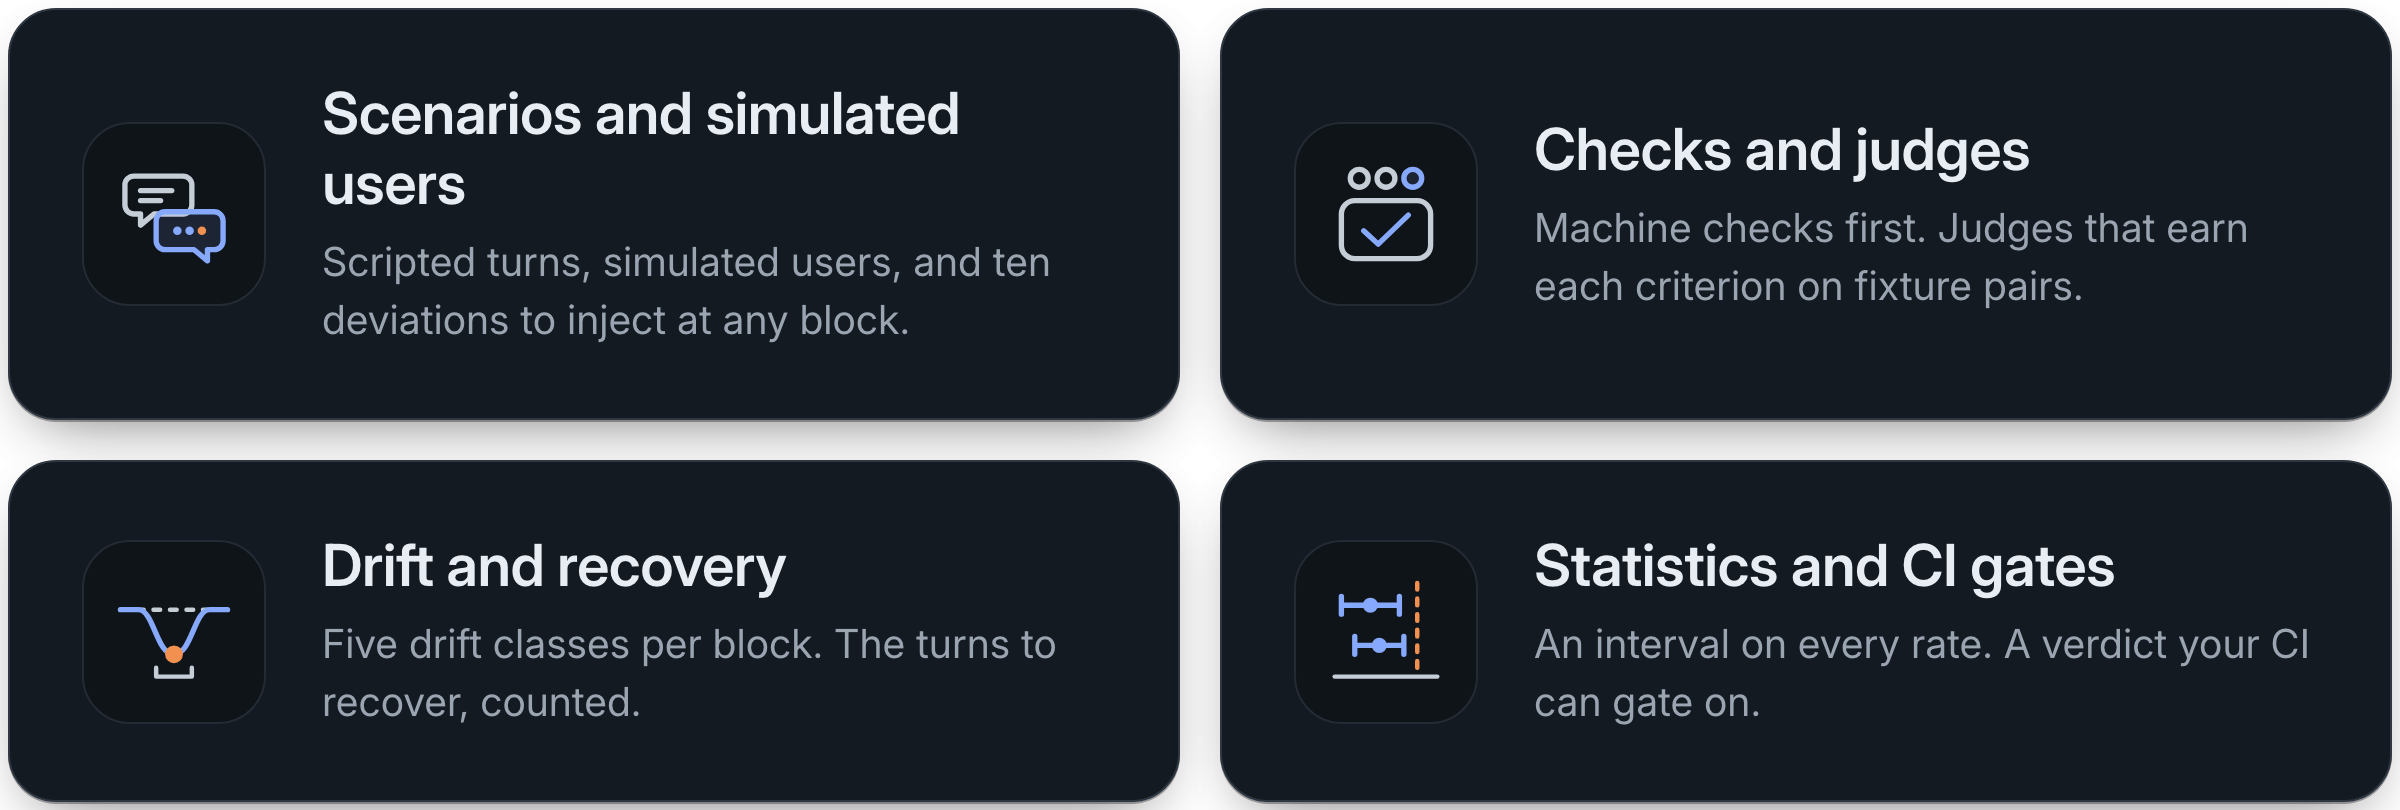
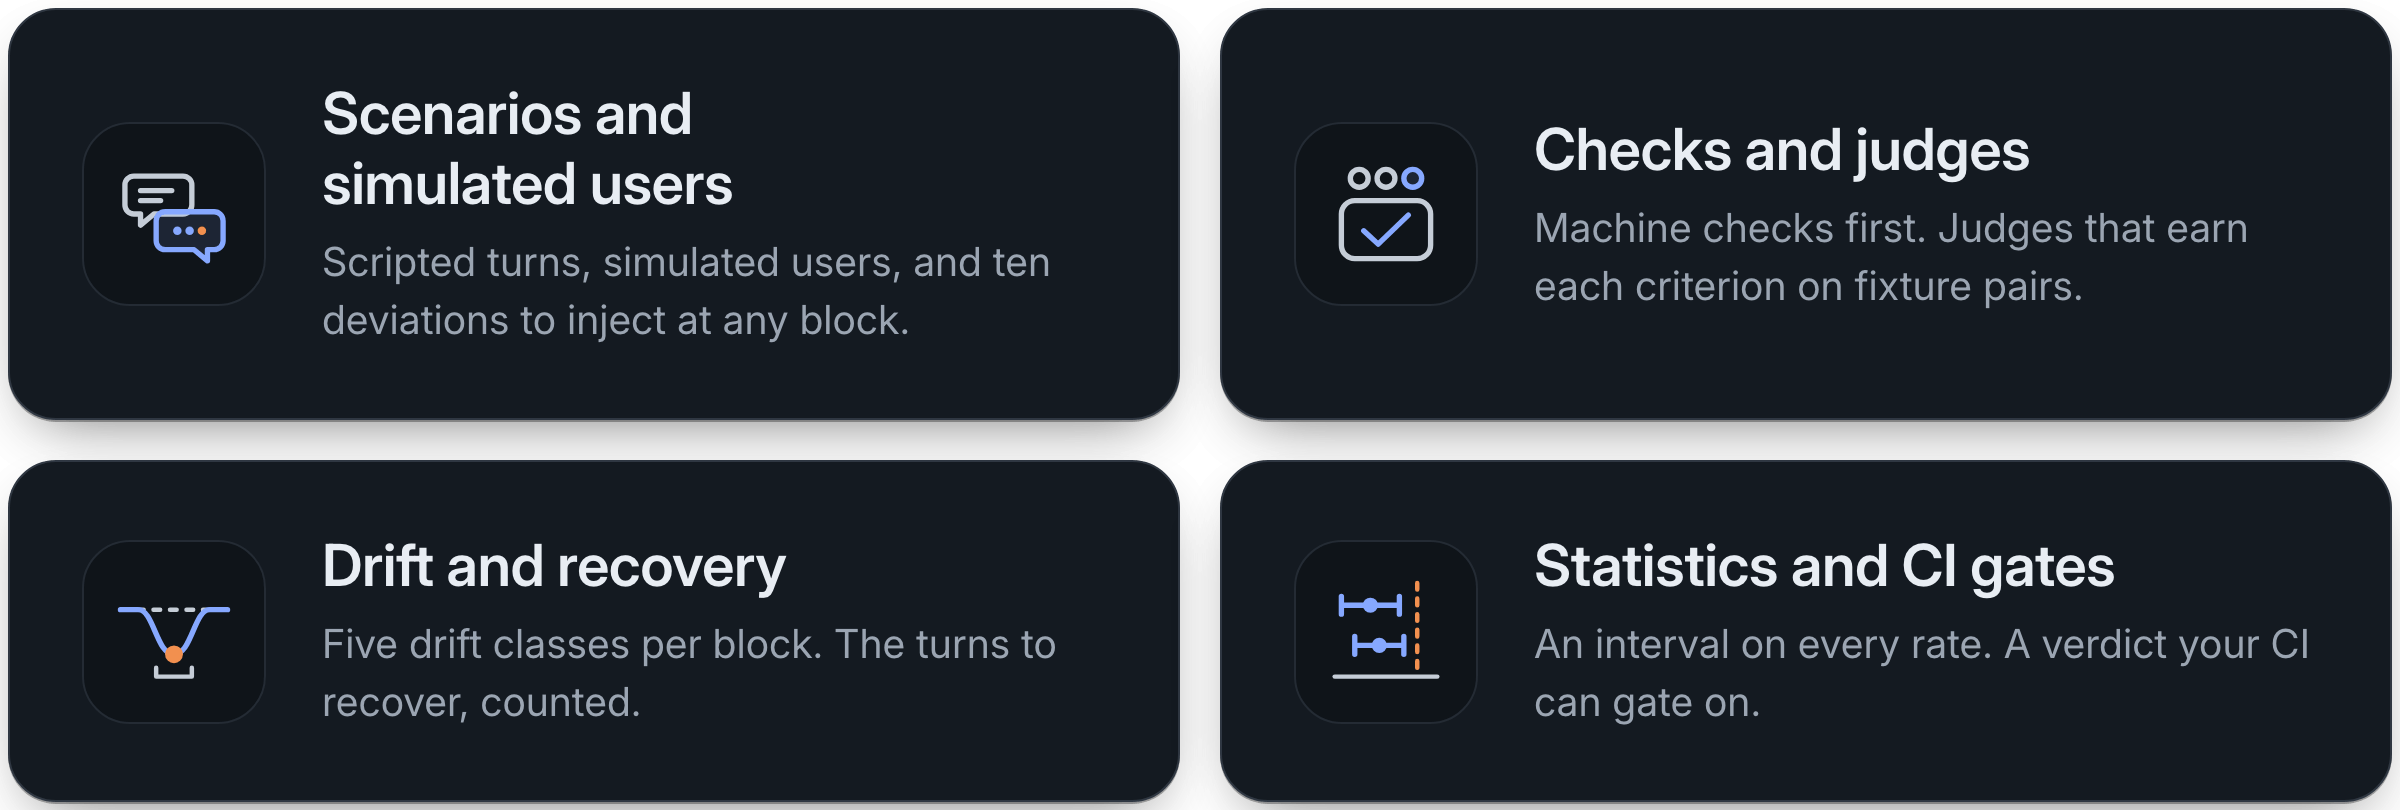
README: two column tables that fit a phone, validated spec snippet
The comparison, run mode and roadmap tables now use two columns, so
nothing scrolls off at 390 px. Phase tags no longer break. The YAML
snippet validates with zero warnings against the spec schema on main.
Tile titles balance, and the TypeScript badge stays visible on dark.

Changed region(s): [[0.125, 0.1852, 0.3125, 0.2778], [0.2812, 0.1235, 0.4062, 0.1852]]

diff --git a/.github/readme/src/areas.html b/.github/readme/src/areas.html
@@ -27,8 +27,8 @@
     border: 1px solid var(--line-2);
   }
   .icon svg { width: 58px; height: 58px; overflow: visible; }
-  h3 { margin: 0; font-size: 29px; font-weight: 600; letter-spacing: -0.01em; color: var(--ink); }
-  p { margin: 8px 0 0; font-size: 20px; line-height: 1.45; color: var(--muted); }
+  h3 { margin: 0; font-size: 29px; font-weight: 600; letter-spacing: -0.01em; color: var(--ink); text-wrap: balance; }
+  p { margin: 8px 0 0; font-size: 20px; line-height: 1.45; color: var(--muted); text-wrap: pretty; }
   .k { stroke: var(--ink-2); }
   .b { stroke: var(--blue); }
   .e { stroke: var(--ember); }

diff --git a/README.md b/README.md
@@ -16,7 +16,7 @@
 <p align="center">
   <a href="LICENSE"><img alt="license Apache 2.0" src="https://img.shields.io/badge/license-Apache--2.0-2F5FD0?style=flat" /></a>
   <a href="#roadmap"><img alt="status pre alpha" src="https://img.shields.io/badge/status-pre--alpha-1B2A44?style=flat" /></a>
-  <img alt="language TypeScript" src="https://img.shields.io/badge/language-TypeScript-0E1116?style=flat" />
+  <img alt="language TypeScript" src="https://img.shields.io/badge/language-TypeScript-2F5FD0?style=flat" />
   <img alt="Node 22 or newer" src="https://img.shields.io/badge/node-22%2B-1B2A44?style=flat" />
   <a href="https://github.com/achammah/driftbench/actions/workflows/ci.yml"><img alt="CI status" src="https://github.com/achammah/driftbench/actions/workflows/ci.yml/badge.svg" /></a>
 </p>
@@ -52,16 +52,25 @@ id: acme.upgrade_plan
 version: "1"
 kind: conversation
 lang: EN
+criteria:
+  - name: one_question
+    rubric: The reply asks one question at most.
 blocks:
-  - when: { user: "Which plan has unlimited data? I want to keep my number." }
+  - when:
+      user: >
+        Which plan has unlimited data?
+        I want to keep my number.
     expect:
       step: plan
       tools:
-        - { label: catalog.search, count: 1 }
-      must: ["unlimited"]
-      must_not: ["as an AI"]
-      ledger_add: { keep_number: true }
-      criteria: [one_question@gating]
+        - label: catalog.search
+          count: 1
+      must: [unlimited]
+      must_not: [as an AI]
+      ledger_add:
+        keep_number: true
+      criteria:
+        - one_question@gating
 ```
 
 ---
@@ -73,19 +82,19 @@ blocks:
   <img alt="Four areas: scenarios and simulated users, checks and judges, drift and recovery, statistics and CI gates." src=".github/readme/areas-light.png" width="100%">
 </picture>
 
-- **[Scenarios and simulated users](#a-block-is-a-unit-test)**: YAML specs, scripted turns, simulated users with a persona and a goal, ten deviation classes to inject at any block. <sub>Phases 0, 1 and 3</sub>
-- **[Checks and judges](#judges-earn-their-criteria)**: machine checks on tools, text, language, personal data and end state, then a council of judges that earn each criterion. <sub>Phases 1 and 2</sub>
-- **[Drift and recovery](#drift-and-recovery)**: five drift classes, the first drift block, the drift rate, and the turns to recover after an injected deviation. <sub>Phase 3</sub>
-- **[Statistics and CI gates](#numbers-with-intervals)**: an interval on every rate, `pass^k`, paired tests, a noninferiority verdict and an exit code for CI. <sub>Phase 4</sub>
+- **[Scenarios and simulated users](#a-block-is-a-unit-test)**: YAML specs, scripted turns, simulated users with a persona and a goal, ten deviation classes to inject at any block. <sub>Phases&nbsp;0,&nbsp;1&nbsp;and&nbsp;3</sub>
+- **[Checks and judges](#judges-earn-their-criteria)**: machine checks on tools, text, language, personal data and end state, then a council of judges that earn each criterion. <sub>Phases&nbsp;1&nbsp;and&nbsp;2</sub>
+- **[Drift and recovery](#drift-and-recovery)**: five drift classes, the first drift block, the drift rate, and the turns to recover after an injected deviation. <sub>Phase&nbsp;3</sub>
+- **[Statistics and CI gates](#numbers-with-intervals)**: an interval on every rate, `pass^k`, paired tests, a noninferiority verdict and an exit code for CI. <sub>Phase&nbsp;4</sub>
 
 ## Things you can do with driftbench
 
-1. **Write a golden as blocks** and validate it with `driftbench spec validate`. <sub>Phase 0 · in progress</sub>
-2. **Run one golden three ways** on the same agent. Teacher forced against free running gives the compounding index. <sub>Phases 1 and 3 · planned</sub>
-3. **Inject a goal shift at block 4**, or a language switch, or an instruction hidden in data, and count the blocks the agent needs to come back. <sub>Phase 3 · planned</sub>
-4. **Let a cheap judge own a criterion** once it matches your hand labels as well as a chat model does. <sub>Phase 2 · planned</sub>
-5. **Gate a prompt change in CI**: noninferiority against the baseline, with a margin you set. <sub>Phase 4 · planned</sub>
-6. **Test a code interpreter agent on what it leaves behind**: the cells of a spreadsheet, the slides of a deck, the files it touched. <sub>Phase 5 · planned</sub>
+1. **Write a golden as blocks** and validate it with `driftbench spec validate`. <sub>Phase&nbsp;0&nbsp;·&nbsp;in&nbsp;progress</sub>
+2. **Run one golden three ways** on the same agent. Teacher forced against free running gives the compounding index. <sub>Phases&nbsp;1&nbsp;and&nbsp;3&nbsp;·&nbsp;planned</sub>
+3. **Inject a goal shift at block 4**, or a language switch, or an instruction hidden in data, and count the blocks the agent needs to come back. <sub>Phase&nbsp;3&nbsp;·&nbsp;planned</sub>
+4. **Let a cheap judge own a criterion** once it matches your hand labels as well as a chat model does. <sub>Phase&nbsp;2&nbsp;·&nbsp;planned</sub>
+5. **Gate a prompt change in CI**: noninferiority against the baseline, with a margin you set. <sub>Phase&nbsp;4&nbsp;·&nbsp;planned</sub>
+6. **Test a code interpreter agent on what it leaves behind**: the cells of a spreadsheet, the slides of a deck, the files it touched. <sub>Phase&nbsp;5&nbsp;·&nbsp;planned</sub>
 
 ---
 
@@ -130,11 +139,11 @@ A block holds everything the agent does between two user messages: text, cards, 
 </picture>
 <p align="center"><sub>Teacher forced isolates each block. Free running lets errors compound. Perturbed injects a deviation and measures the way back.</sub></p>
 
-| Mode | Prior context | What it isolates |
-|---|---|---|
-| **Teacher forced** | the golden's own earlier blocks | local accuracy, block by block |
-| **Free running** | the agent's own earlier replies | compounding: one wrong block poisons the next |
-| **Perturbed** | free running, plus a deviation at block k | recovery: whether it comes back, how fast, at what cost |
+| Mode, and where each block starts | What it isolates |
+|---|---|
+| **Teacher forced**<br/>from the golden's own earlier blocks | local accuracy, block by block |
+| **Free running**<br/>from the agent's own earlier replies | compounding: one wrong block poisons the next |
+| **Perturbed**<br/>free running, plus a deviation at block k | recovery: whether it comes back, how fast, at what cost |
 
 The gap between teacher forced and free running on the same golden is the **compounding index**. An agent can be right block by block and still fragile end to end. Only the free running run shows it.
 
@@ -201,7 +210,7 @@ The same runner covers agent harnesses through a runtime battery: hook replay wi
 
 All planned. Every adapter must pass the same contract suite.
 
-**Agents:** function · HTTP · OpenAI Agents · Anthropic · Google · LangGraph · process, for code agents in a sandbox · Nexus<br/>
+**Agents:** function · HTTP · OpenAI Agents · Anthropic · Google · LangGraph · Nexus · process, for code agents in a sandbox<br/>
 **Judges:** Jev · OpenAI Decisions API · OpenAI · Google · Anthropic · any HTTP endpoint<br/>
 **Reports:** HTML scorecard · run diff · JUnit XML · Markdown summary<br/>
 **CI:** exit codes on the verdict · GitHub Action<br/>
@@ -211,28 +220,28 @@ All planned. Every adapter must pass the same contract suite.
 
 driftbench builds on ideas other tools document well. What their docs describe as of 11 October 2026, and how driftbench takes each idea further:
 
-| Tool | Its docs describe | driftbench, by design |
-|---|---|---|
-| [LangWatch Scenario](https://langwatch.ai/scenario/advanced/how-judging-works/) | A judge that marks each criterion passed, failed or inconclusive | The same three outcomes, per block. Inconclusive is judged again and never counted. <sub>Phase 2</sub> |
-| [promptfoo](https://www.promptfoo.dev/docs/configuration/expected-outputs/) | Trajectory assertions: which tools ran, with which arguments, in which order | Tool checks on label, count, arguments and order, plus an end state check. <sub>Phase 1</sub> |
-| [DeepEval](https://deepeval.com/docs/conversation-simulator) | A conversation simulator that plays a user from a scenario and a persona | Simulated users with a goal, plus deviations injected at a chosen block. <sub>Phase 3</sub> |
-| [Inspect](https://inspect.aisi.org.uk/metrics.html) | Wilson intervals for binary scores, clustered standard errors, and a [scorer cascade](https://inspect.aisi.org.uk/multiple-scorers.html) that stops at the first scorer that settles a sample | Intervals on every rate with one conversation per cluster, paired tests, and judges that run cheapest first. <sub>Phases 2 and 4</sub> |
-| [Langfuse](https://langfuse.com/docs/evaluation/overview) | A GitHub Action that fails the job when a score violates your threshold | A noninferiority verdict with a margin, as an exit code. <sub>Phase 4</sub> |
-| [Opik](https://www.comet.com/docs/opik/evaluation/evaluate_threads) | An `evaluate_threads` function that scores whole conversation threads | Verdicts per block, then drift and recovery across them. <sub>Phase 3</sub> |
+| Tool, and what its docs describe | driftbench, by design |
+|---|---|
+| **[LangWatch Scenario](https://langwatch.ai/scenario/advanced/how-judging-works/)**<br/>A judge that marks each criterion passed, failed or inconclusive. | The same three outcomes, per block. Inconclusive is judged again and never counted. <sub>Phase&nbsp;2</sub> |
+| **[promptfoo](https://www.promptfoo.dev/docs/configuration/expected-outputs/)**<br/>Trajectory assertions: which tools ran, with which arguments, in which order. | Tool checks on label, count, arguments and order, plus an end state check. <sub>Phase&nbsp;1</sub> |
+| **[DeepEval](https://deepeval.com/docs/conversation-simulator)**<br/>A conversation simulator that plays a user from a scenario and a persona. | Simulated users with a goal, plus deviations injected at a chosen block. <sub>Phase&nbsp;3</sub> |
+| **[Inspect](https://inspect.aisi.org.uk/metrics.html)**<br/>Wilson intervals for binary scores, clustered standard errors, and a [scorer cascade](https://inspect.aisi.org.uk/multiple-scorers.html) that stops at the first scorer that settles a sample. | Intervals on every rate with one conversation per cluster, paired tests, and judges that run cheapest first. <sub>Phases&nbsp;2&nbsp;and&nbsp;4</sub> |
+| **[Langfuse](https://langfuse.com/docs/evaluation/overview)**<br/>A GitHub Action that fails the job when a score violates your threshold. | A noninferiority verdict with a margin, as an exit code. <sub>Phase&nbsp;4</sub> |
+| **[Opik](https://www.comet.com/docs/opik/evaluation/evaluate_threads)**<br/>A function that scores whole conversation threads. | Verdicts per block, then drift and recovery across them. <sub>Phase&nbsp;3</sub> |
 
 ---
 
 ## Roadmap
 
-| Phase | What it delivers | Status |
-|---|---|---|
-| **Phase 0** · Foundations | Monorepo and CI, spec schemas and loader, `spec validate`, the coverage tool, the Acme Telecom example, docs | In progress |
-| **Phase 1** · Runner, checks and store | Free running mode, scripted users, function, HTTP and Nexus adapters, machine checks, a SQLite store with cache and resume, cost and latency per segment | Planned |
-| **Phase 2** · Judge council | Judge clients, majority and cascade, fixture pairs, kappa, earned assignment | Planned |
-| **Phase 3** · Perturbation, drift and recovery | Simulated users, ten deviation classes, drift classes, recovery metrics, teacher forced mode | Planned |
-| **Phase 4** · Statistics, scorecard and CI gate | Intervals and paired tests, the noninferiority verdict, HTML scorecard, JUnit XML, `driftbench ci`, a GitHub Action | Planned |
-| **Phase 5** · Code agents and runtime battery | Sandbox, process adapter, artifact readers, workspace and safety checks, the runtime battery, more agent adapters | Planned |
-| **Phase 6** · First release | Docs site, comparison page, examples, version 0.1.0 on npm | Planned |
+| Phase and status | What it delivers |
+|---|---|
+| **Phase 0** · Foundations<br/>`in progress` | Monorepo and CI, a leak guard, spec schemas and loader, `spec validate`, the coverage tool, the Acme Telecom example, docs |
+| **Phase 1** · Runner, checks and store<br/>`planned` | Free running mode, scripted users, function, HTTP and Nexus adapters, machine checks, a SQLite store with cache and resume, cost and latency per segment |
+| **Phase 2** · Judge council<br/>`planned` | Judge clients, majority and cascade, fixture pairs, kappa, earned assignment |
+| **Phase 3** · Perturbation, drift and recovery<br/>`planned` | Simulated users, ten deviation classes, drift classes, recovery metrics, teacher forced mode |
+| **Phase 4** · Statistics, scorecard and CI gate<br/>`planned` | Intervals and paired tests, the noninferiority verdict, HTML scorecard, JUnit XML, `driftbench ci`, a GitHub Action |
+| **Phase 5** · Code agents and runtime battery<br/>`planned` | Sandbox, process adapter, artifact readers, workspace and safety checks, the runtime battery, more agent adapters |
+| **Phase 6** · First release<br/>`planned` | Docs site, comparison page, examples, version 0.1.0 on npm |
 
 ---
 
@@ -241,8 +250,8 @@ driftbench builds on ideas other tools document well. What their docs describe a
 Issues and pull requests are welcome. The project is young, so the most useful contributions right now are specs, checks and adapters.
 
 1. Fork the repo and run `pnpm install`.
-2. Make your change with its tests.
-3. Open a pull request. Keep every example synthetic: no real customer, prompt or conversation data.
+2. Make your change with its tests, then run `pnpm lint`, `pnpm typecheck` and `pnpm test`.
+3. Open a pull request. CI runs the same checks plus a leak guard. Keep every example synthetic: no real customer, prompt or conversation data.
 
 Questions and ideas go in [GitHub issues](https://github.com/achammah/driftbench/issues).
 
